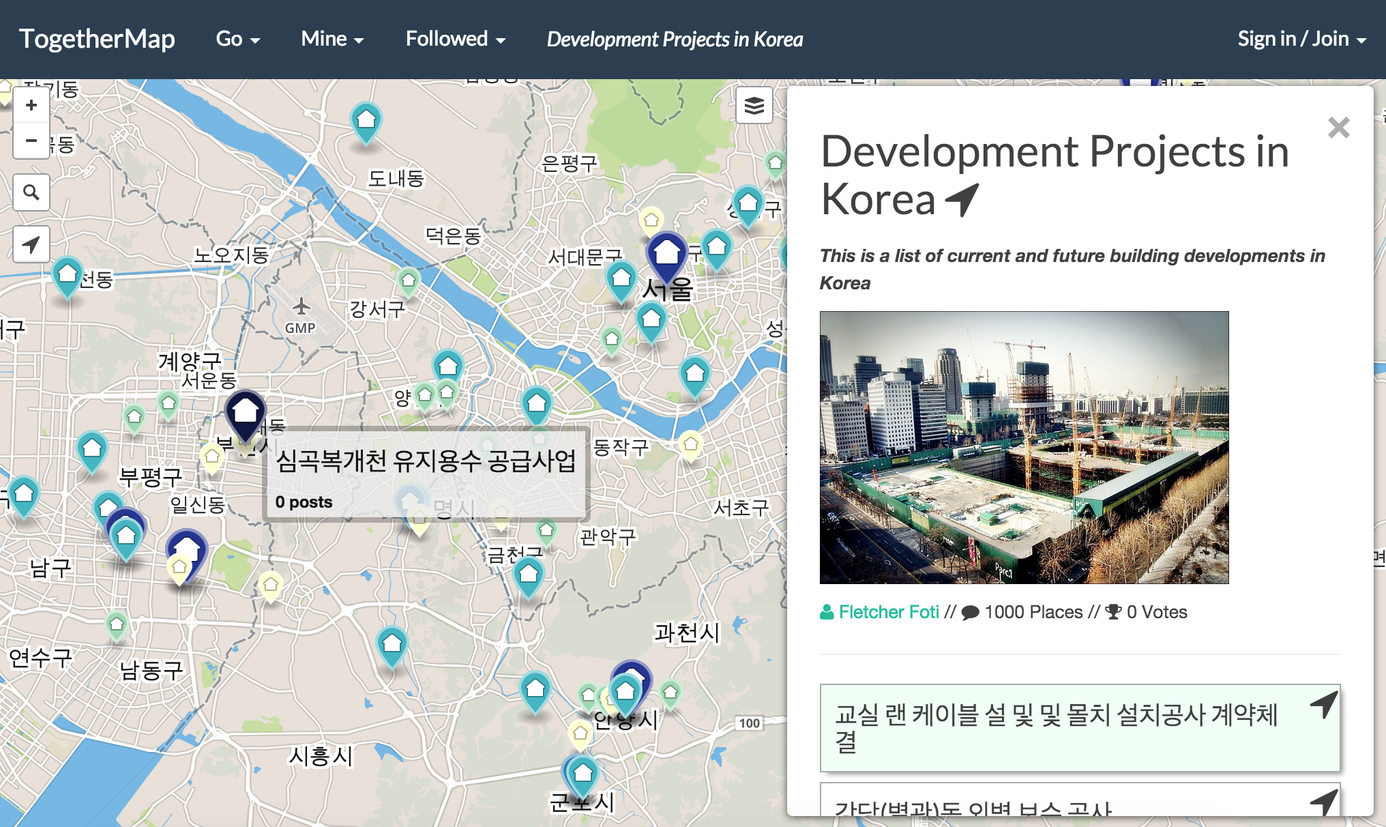
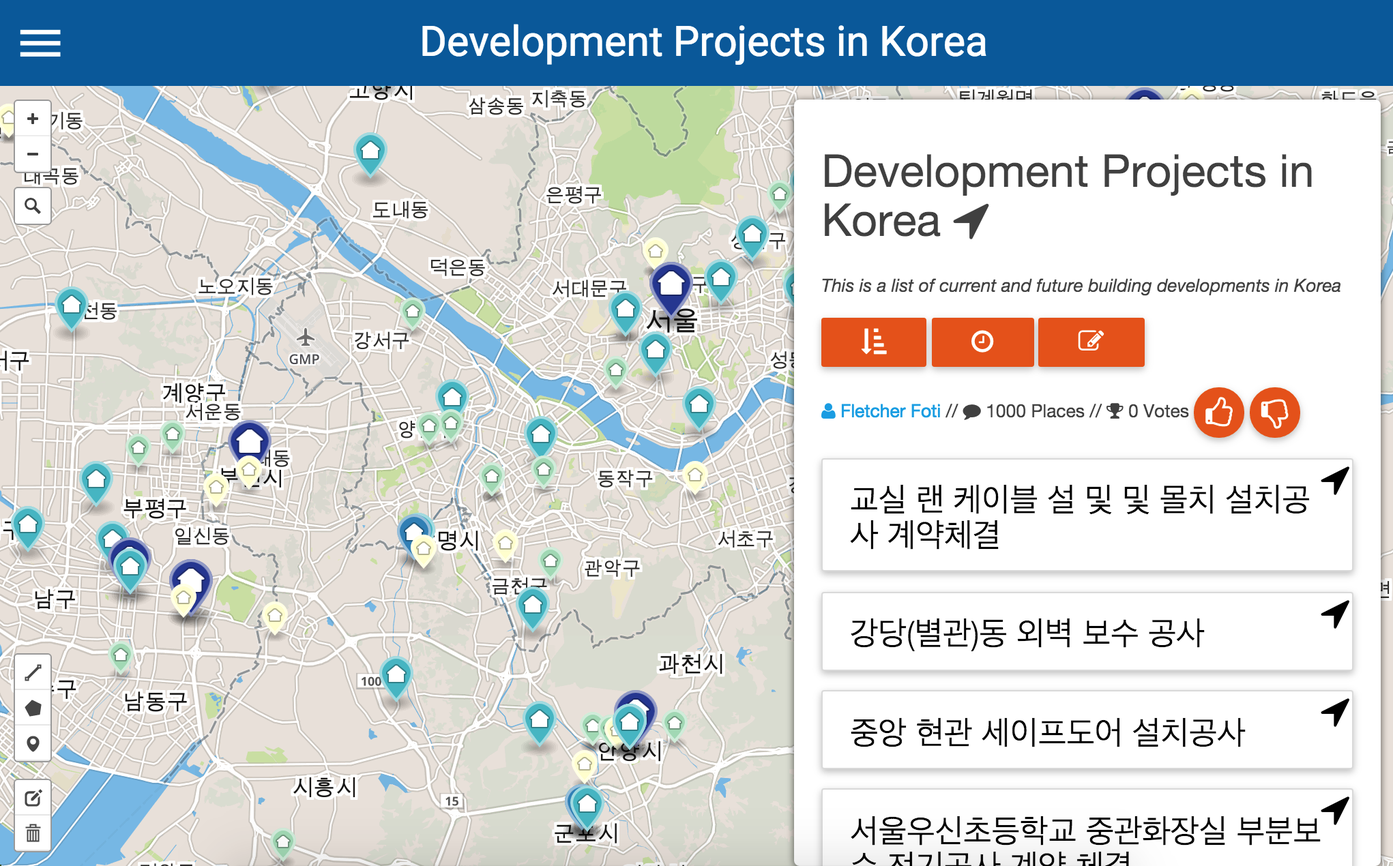
updating the docs to be consistent with the materialize version of the site

diff --git a/docs/basics.md b/docs/basics.md
@@ -1,42 +1,36 @@
 ## A Tour of the UI
 
-The navbar across the top is similar to a file menu in most desktop applications.  "Go" contains links to create a new collection, search or browse collections, import new data, or read this very documentation.
+Most of the basic menu operations happen by clicking the "Hamburger" in the upper left of the navbar.  This pulls out a left-side menu like many mobile sites.  You can then click "Collections" to get access to the list of collections, or "New" for a new colleciton, or "Import" to bring in external shape data.
 
-Next to that is the "Mine" drop down which contains the collections you created, and next to that is the "Followed" drop down which contains - you guessed it - the collections you've followed.
-
-Along the right hand side is where you login to the website.  You must be logged to create or edit content on TM so we can associate your data with your account, which is true of any online service.  If you're logged in to a private collection, your data is as secure as your online bank.
+You also login using the left-hand side menu.  You must be logged to create or edit content on TM so we can associate your data with your account.  If you're logged in to a private collection, your data is as secure as your online bank.
 
 ## The Map View
 
-The map view has a few small widgets which control the map pane.  Along the right hand side is the "sidebar" which fills with content depending on your most recently performed action.  In the upper right hand corner is the layer switcher, which lets you change basemaps (e.g. to aerial photographs and a few others).  Most of the basemaps use data from [OpenStreetMap](https://www.openstreetmap.org/).
+The map view has a few small widgets which control the map pane.  Along the right hand side is the "sidebar" which fills with content depending on your most recently performed action.  Most of the basemaps use data from [OpenStreetMap](https://www.openstreetmap.org/).
 
-Along the left hand side are the zoom in and zoom out buttons, the share widget, the geocoding widget and the location widget.  In reverse order, the location widget takes you to where you are in the world, the geocoder lets you put in an address and when you select a matching address takes you to that location, and the share widget lets you share on social media, and importantly, gives you the html snippet to embed a TogetherMap on your website.
-
-## Embedding
-
-Let's give that a header.  The share widget contains the html snippet to embed a TogetherMap on your website.  Please do!
+Along the left hand side are the zoom in and zoom out buttons and the geocoding widget.  The geocoder lets you put in an address and when you select a matching address takes you to that location.
 
 ## Collection Page
 
-Navigation typically happens by clicking on a collection, either in the "Mine" list, the "Followed" list, or via the "Browse" link.  When a collection is clicked, you get up to 100 places in the map view for that collection, and the sidebar contains a description of the collection.  If there are more than 100 places in the map view where you are, you might need to zoom in to load more places.  TM will let you know if you're looking at all possible places with the statement "All places in visible area are available."  
+Navigation typically happens by clicking "Collections" from the left-side menu.  You can then browse to collections you own, collections you follow, and other public collections.  When a collection is clicked, you get up to 100 places in the map view for that collection, and the sidebar contains a description of the collection.  If there are more than 100 places in the map view where you are, you might need to zoom in to load more places.  
 
-If you click the button for "Recent" you will get the most recent places, posts and comments for the collection.  You may also up or down vote the collection here.  If you have "owner" permissions on the collection, you will be able to edit the collection configuration and set the permissions, which will be explained in the [customization](customization.md) and [permissions](permissions.md) pages respectively.  
+If you click the button for "Recent" you will get the most recent comments for the collection (to get recent places, click the sort button and "recent" to sort by the most recent places).  You may also up or down vote the collection here.  
+
+If you have "owner" permissions on the collection, you will be able to edit the collection configuration and set the permissions, which will be explained in the [customization](customization.md) and [permissions](permissions.md) pages respectively.  
 
 If you do *not* own the collection, you will have the option to follow the collection, and if you are already following the collection you will have the option to unfollow the collection.  
 
-The collection page also includes a scrollable list of all the places currently loaded for the collection.  Whenever you mouse over the "card" for a place, if the place is a marker it will bounce to show you which place this "card" represents on the map.  You can also click the location arrow in the upper right hand corner to pan to the place, and click again to zoom in on the place.
+The collection page also includes a scrollable list of all the places currently loaded for the collection.  Whenever you mouse over the "card" for a place, that place will be highlighted with a darker color in the map view.  Additionally, if the place is a marker it will bounce to show you which place this "card" represents on the map.  You can also click the location arrow in the upper right hand corner to pan to the place, and click again to zoom in on the place.
 
-## Place and Post Pages
+## Place Pages
 
 Click on a place, either in the map view or in the place list in the collection view, and you will arrive on the place page.  The place page mainly is to provide the place (pun intended) to have a conversation about the place.  
 
-Below the place description is a list of current posts about this place.  Create a new topic or respond by commenting on another topic.  To comment click on the "Read More" button to arrive at the post page, or click "Post New Topic" to - you guessed it - post a new topic.
-
-From this page you can also vote the place up or down, copy it to another collection, or edit the place properties, including marker icon, color, and size (small, medium, and large).
+Below the place description is a list of current comments about this place.  From this page you can also vote the place up or down, copy it to another collection, or edit the place properties, including marker icon, color, and size (small, medium, and large), as well as set a default image for the place.
 
 ## Adding Places
 
-If you have place adding permissions for a given collection (which you always have if you created or own the collection), then you will see a toolbar at the bottom left hand corner of the map.  From the bottom, the icons are for delete, edit, marker add, polygon add, and line add.  The last 3 add the main 3 kinds of shapes in any spatial information system and TM is no expection.
+If you have place adding permissions for a given collection (which you always have if you created or own the collection), then you will see a toolbar at the bottom left hand corner of the map (you will not see this toolbar if you don't have permissions).  From the bottom, the icons are for delete, edit, marker add, polygon add, and line add.  The last 3 add the main 3 kinds of shapes in any spatial information system and TM is no expection.
 
 TM uses the wonderful library [Leaflet](http://leafletjs.com/) as it's mapping library, and this drawing toolbar is the [Leaflet Draw](https://github.com/Leaflet/Leaflet.draw) widget.  A pretty great blog to understand the breadth of this plugin is provided [here](http://www.d3noob.org/2014/01/using-leafletdraw-plugin-for-leafletjs.html).
 
@@ -46,4 +40,8 @@ If you click the edit button, you now enter a mode where you can drag any marker
 
 ## Adding Places Redux
 
-There are two other super easy ways to add places.  If you're on the desktop, just right click and use the context menu to add a place.  Or you can click on "Go" and "Settings" (or just Ctrl-d) to turn double clicking into marker adding (as opposed to its default function, which is to zoom in).
+There are two other super easy ways to add places.  If you're on the desktop, just right click and use the context menu to add a place.  Or you can click on "Settings" in the left-side menu (or just Ctrl-d) to turn double clicking into marker adding (as opposed to its default function, which is to zoom in).
+
+## Adding Places on Mobile
+
+If you're on mobile, this all gets simpler, but less powerful.  On mobile, when you have place adding permissions you can only add markers, and there will be a single button on the map with the marker icon to add a place.  Once you click this button, a marker will "float" in the middle of the map; move the map until the marker is in the appropriate location and click the save button (or the "x" to cancel adding the marker).

diff --git a/docs/getting_started.md b/docs/getting_started.md
@@ -1,46 +1,42 @@
-## Places and Posts
+## Places, Votes, and Comments
 
-*I see places and posts mentioned a lot - what are those?*
+*I see places, votes, and comments mentioned a lot - what are those?*
 
 Places are shapes on the map.  They can be markers, lines, or free-form shapes.
 
-Posts are topics about that place.  Posts are the same thing that they are in web message boards like Reddit.  We're building place-based discussions with reddit-like functionality.
+Votes allows you to up and down-vote places within a collection, so you can keep track of consensus of a group, for instance.
 
-Also, comments are responses to posts.  You can click the "read more" link on each post in order to get to the actual comment threads.
-
-Really the use of places, posts, and comments is defined by your convention.  Some users don't use comments at all.  Some don't even use posts and just use TM to collect places and make maps.  It's really up to you to define a convention for a collection.
+Comments are responses about that place, similar to any other web comment board, except with a focus on a particular place.
 
 ## Collections
 
 *I hear the word collection mentioned a lot - what's that?*
 
-Collections are a way to organize your places into groups which have a common theme.  A number of concepts are tied to collections including permissions, theming of how places appear both in the sidebar and on the map, and a few others things.  Collections are similar to a "board" in Pinterest or a "layer" in GIS.  
+Collections are a way to organize your places into groups which have a common theme.  A number of concepts are tied to collections including permissions, theming of how places appear both in the sidebar and on the map, and a few others things we'll get to later.  Collections are similar to a "board" in Pinterest or a "layer" in GIS.  
 
-The key feature of TM is to store many collections in the same system and to be able to search across collections - for instance, to find all the places near you, no matter the collection they are a part of.  
+One key feature of TM is to store many collections in the same system and to be able to search across collections - for instance, to find all the places near you, no matter the collection they are a part of.  
 
-Nonetheless, a great many use cases involve collecting place data within a single collection, and we will make sure to provide access to that functionality in the simplest way possible without complicating things with the greater scope of TM.
+Nonetheless, a great many use cases involve collecting place data within a single collection, and we will make sure to provide access to that functionality in the simplest way possible without complicating things with the greater possibilities provided by TM.
 
 ## Getting Started
 
 *So, what's the best way to get started?*
 
-My favorite use case is to collect places I want to remember - e.g. a set of coffee shops I might want to go to.  So let's assume you and a few friends want to build a collection of the best coffee shops for working in San Francisco.
+My favorite basic use case is to collect places I want to remember - e.g. a set of coffee shops I might want to go to.  So let's assume you and a few friends want to build a collection of the best coffee shops for working in San Francisco.
 
-* First move the map to San Francisco (or to whever you are) using the "location arrow" in the upper left corner of the map.  It takes a second for your device to register the location (and you might have to accept permissions) but this moves the map to your location just like in Google Maps.
+* First move the map to San Francisco (or to wherever you are) by searching for a nearby place using the magnifying glass button on the map, or just drag the map to your preferred location.
 
-	You might want to zoom out a bit (click minus twice) and you can click the "location arrow" again if you want the blue circle to go away.
-
-* Next make a new collection by clicking "Go" and "New".  This creates a new collection with the default name, which you can change to "Fave Coffee" or something similar.  You can also move the map around a bit to your preferred default view for this collection and click "Set Default View".  **Set default view saves both the position and the background map you're currently using.**
+* Next make a new collection by opening the side menu (using the triple bars, called the "Hamburger") and "New".  This creates a new collection with the default name, which you can change to "Fave Coffee" or something similar.  You can also move the map around a bit to your preferred default view for this collection and click the "devault view" button (the triangle rotated to the right) to save the current map as the default view.
 	
-	Click "Save" to go the collection page for this collection.  In reality everything in TM is saved automatically and so "save" really just means "back" to the collection.
+	Click the left arrow to go the collection page for this collection.  In TM everything is saved automatically as you change things (so be sure to change it back if you didn't intend the change).
 
-* Next click "Go" and then "Search".  By default TM searches the place database provided by Factual, Inc. in order to get a great starter set of "places" in the world.  Factual keeps a fairly up-to-date list of all the coffee shops, restaurants, parks, dentists, and so forth (over 65 million places worldwide).  Put "coffee" into the search box and TM begins to search automatically.
+* Next click the Hamburger and then "Search".  By default TM searches the place database provided by Factual, Inc. in order to get a great starter set of places in the world.  Factual keeps a fairly up-to-date list of all the coffee shops, restaurants, parks, dentists, and so forth (over 65 million places worldwide).  Put "coffee" into the search box and TM begins to search automatically.
 
-* Now there's a set of places on the map that have all been returned from a Factual search.  Most are coffee shops, and all have some connection to coffee.  Click on one, possibly a nearby coffee shop that you know.  
+* Now there's a set of places on the map that have all been returned from a Factual search.  Most are coffee shops, and all have some connection to coffee.  Click on one, possibly a nearby coffee shop that you know.  Or search for a specific coffee shop.  TM will search outside of the current view, so you might need to click on the location icon (triangle rotated to the right) to pan to each place.  
 
-	When you click on a place, TM will bring up the place detail page with additional information about the place, and a conversation thread to begin a discussion about the place.
+	When you click on a place, TM will bring up the place detail page with additional information about the place, and a conversation thread to begin making comments about the palce.
 
-	For now click "Copy to".  A list of your collections comes up - both collections you created and collections you follow.  Click on "Fave Coffee" and the place gets added to the collection you created above.
+	For now click the copy icon.  A list of your collections comes up - both collections you created and collections you follow.  Click on "Fave Coffee" and the place gets added to the collection you created above.
 
 	Repeat these steps for other coffee shops you want to add to your map.  It's all downhill from here.
 

diff --git a/docs/images.md b/docs/images.md
@@ -1,18 +1,8 @@
-## The Text Editors
-
-You'll notice that there are small text editors that are used to enter a description of the collections and places, as well as to enter new topics and comments.  These text editors are configurable and provided to us by [Froala](froala.com).  By default these text editors let you bold and italicize the text, make bulleted lists, create links, and embed video and images.  
-
-The far right icon lets you switch to "code" view so you can edit the actual HTML.  Although it's not common, sometimes a `<br>` tag to make a proper line break can save a lot of embarassment.
-
 ### Images
 
 If Pinterest has taught us anything, it's that images are the lifeblood of the web, and TogetherMap is no exception.  We highly reccommend adding images wherever possible in TM to liven things up a bit, but this is entirely up to the user.  
 
-The easiest way to add images to TM is by clicking the image embed icon in every text editor.  In this way you can add images to any collection, place, post, or comment.
-
-### Images from Social
-
-For now, click on the image icon second to right in any text editor.  This will open up the image selection dialog that is provided to us by [filepicker.com](https://www.filepicker.com/).  This part should be fairly easy to figure out, but note that filepicker connects you to your account for Box, Dropbox, Facebook, Google Drive, Flickr, Instagram, and Picasa all within this easy-to-use interface.  
+The easiest way to add images to TM is by clicking the image button on every collection edit or place edit page.  When you click this button, this will open up the image selection dialog that is provided to us by [filepicker.com](https://www.filepicker.com/).  This part should be fairly easy to figure out, but note that filepicker connects you to your account for Box, Dropbox, Facebook, Google Drive, Flickr, Instagram, and Picasa all within this easy-to-use interface.  
 
 Note that this does *not* give us access to your accounts, you simply choose which content you want to move to TM so that you can organize and view it on a map.
 
@@ -28,10 +18,9 @@ If you already know of an image on the web (or prefer using the Google image sea
 
 You can also import an entire album from Flickr into TogetherMap.  Since the concept of a Flickr *album* maps pretty perfectly to the concept of a TogetherMap *collection*, this works quite well.  (Note that Picasa also has albums but they do not publicly release the geotags on the pictures which does not work well for import into TM.)
 
-To import a Flickr collection, simply click "Go" and "Import" and look for the text box labeled "Flickr Link."  In this text box, paste the link to your album on Flickr - it will be of the form `https://www.flickr.com/photos/133431672@N05/sets/72157653474631614` but the long strings of characters will be different.  Then click import.  That's all there is to it.  
+To import a Flickr collection, simply click "Import" in the left-side menu and look for the text box labeled "Flickr Link."  In this text box, paste the link to your album on Flickr - it will be of the form `https://www.flickr.com/photos/133431672@N05/sets/72157653474631614` but the long strings of characters will be different.  Then click import.  That's all there is to it.  
 
 Every image will now be added to TogetherMap with a marker, and the collection and place pages will work the same as any other collection on TM.  As with any other collection, you can add place names and descriptions, which you can use to annotate your photo collection from Flickr (possibly even easier than you can do so on Flickr). 
-
 Finally, there is one additional feature: under any Flickr collection, after you click to edit the collection, there is a *refresh* button, which when clicked will import any *new* photos that are not present in the current collection.  This allows you to continually add photos to the Flickr album and synchronize to TM without losing any of the edits you've made on TM.
 
 ### Setting the permissions correctly on the Flickr Album
@@ -40,8 +29,8 @@ Unfortunately there's one caveat.  Although the TM side of an import is utterly 
 
 First, you have to tell Flickr that's it's OK to publicly release the built-in geotags on your photos (made by your mobile phone or possibly your modern digital camera).  These geotags are essential for TM to map the photos (stands to reason).  All these steps happen on Flickr, not on TogetherMap.
 
-* go to your account (click your image or default image in the upper right hand of the page)
-* click on privacy and permissions along the top (but under the black menu bar)
+* Go to your account (click your image or default image in the upper right hand of the page)
+* Click on privacy and permissions along the top (but under the black menu bar)
 * Make sure "Hide your EXIF data" is set to "No" and set "Import EXIF location data" to "Yes"
 
 Second, you have to make the images in the album public.  The best way I can find to do this is within Organizr.  Click on the album and then find the link for "Edit in Organizr".  Select all the images, click on "Batch Edit" and "Change Permissions" and set to "Anyone".

diff --git a/docs/hooked.md b/docs/hooked.md
@@ -6,20 +6,20 @@ The fun of TogetherMap is the collaborative spirit of mapping in real time.  We'
 
 Do you have that friend yet?  If you don't have that friend handy, you can open up a second browser, get your cell phone, or whatever.  The point is - when you add a place in TM, anyone else following that collection gets the update immediately (without a reload), and can respond with their own edits.  
 
-This is true almost everywhere in TM.  Posts are made in real time on places (like a chatroom), collection lists are refreshed on-the-fly, and even users accepting permissions are updated instantly.  Grab 100s of friends if you can, and watch the map come to life.  
+This is true almost everywhere in TM.  Comments are made in real time on places (like a chatroom), collection lists are refreshed on-the-fly, and even users accepting permissions are updated instantly.  Grab 100s of friends if you have that many, and watch the map come to life.  
 
 And there's no fake maps in TM.  Everything on the site exists in the world out there too, so use TM to help discover new things about the city you live in!  This is not Facebook - helping you keep up with friends 1000s of miles away.  This is TogetherMap, helping you find new experiences in the world you walk through every day.
 
-## Place-based Posting
+## Place-based Conversations
 
-A big part of that is place-based posting.  It's a pretty simple addition to an idea that's everywhere on the web.  Basically you have a conversation thread tied to each and every place you make.  Start a new topic or comment as a response to a previous topic.  
+A big part of that is place-based commenting.  It's a pretty simple addition to an idea that's everywhere on the web.  Basically you have a conversation thread tied to each and every place you make. 
 
-Every place is assigned to a single collection (although places can be copied to other collections and even modified).  In this way multiple discussions can occur about each place. Discussions for each place only happen within the current collection, but there will be links to the other collections a place occurs in for eavesdropping into other groups' conversations (look for "Collections this place is a member of" on each place).  If a collection is private, all conversations in that collection are private.  
+Every place is assigned to a single collection (although places can be copied to other collections and even modified).  In this way multiple discussions can occur about each place. Discussions for each place only happen within the current collection, but there will be links to the other collections a place occurs in for eavesdropping into other groups' conversations (look for "Collections this place is a member of" on each place).  If a collection is private, all conversations within that collection are private.  
 
 So for example a place might be in one collection of "breakfast joints" and also a second of "bars" and you can imagine the conversation that occurs in each collection might be very different.
 
 ## Sifting through the Noise
 
-Like any multi-user website, if the community is active enough, there need to be ways to find the signal through the noise.  TM typically subscribes to the same philosophy as Reddit here, using up- and down-votes, and to some degree clicks, as well as a free text search and browse of collections.  At this time, the voting system is present for collections and places, and will be added to posts when it's needed.  Search now applies to places but can also be added to collections and posts.
+Like any multi-user website, if the community is active enough, there need to be ways to find the signal through the noise.  TM typically subscribes to the same philosophy as Reddit here, using up- and down-votes, and to some degree clicks, as well as a free text search and browse of collections.  At this time, the voting system is present for collections and places.
 
 But like Pinterest, TM uses you the user to curate collections of places and to sift through the noise.  Find the best collections and follow them.  Find the best collectors and look through their other collections.  Who knows what you might find?  As TM grows, we will highlight the best collectors and the best collections and make sure the world knows about them.

diff --git a/docs/permissions.md b/docs/permissions.md
@@ -1,6 +1,6 @@
 ## Accessing Permissions
 
-Permissions are accessed by going to the collection page and clicking on the button for permissions.  Only collection creators and those with owner permissions can change permissions on a collection.
+Permissions are accessed by going to the collection page and clicking on edit and then clicking on the button for permissions (the eye with a line through it).  Only collection creators and those with owner permissions can change permissions on a collection.
 
 ## Kinds of Permissions
 
@@ -11,19 +11,19 @@ There are 4 kinds of permissions in TM.
 * post writers (posters for short)
 * readers
 
-Owners can edit collection attributes and set permissions, place writers can add places to a collection, post writers cannot add places but can make new topics, comments and vote, and readers can only browse a collection but cannot add or edit any content.
+Owners can edit collection attributes and set permissions, place writers can add places to a collection, post writers cannot add places but can make comments and vote, and readers can only browse a collection but cannot add or edit any content.
 
 Note that these permissions are hierarchical, i.e. all place writers are post writers and all post writers are readers and all owners have all available permissions.
 
 ## Making a Collection Private
 
-After clicking the permissions button, you will see 4 buttons, one for each of the 4 kinds of permissions.  Click each button to see the permission settings for that type of permission.
+After clicking the permissions button, you will see 4 links for each of the 4 kinds of permissions.  Click each link to see the permission settings for that type of permission.
 
 First you will see a button to make a collection "private."  By default, when created all collections are public place writable (which implies public readable and public post writable).  To give someone permission, the collection first has to be private for that permission.  Click on private to do this.
 
 In this case private collections are hierarchical in the opposite order, i.e. post private collections are all place private and read private collections are all post private (this happens automatically).
 
-## Configurating a Private Collection
+## Configuring a Private Collection
 
 Once you've made a collection private you will see widgets to configure permissions.
 
@@ -31,9 +31,9 @@ At the top you will see a list of users that have that permission, each with a r
 
 Note: public owner collections do not exist - you must give ownership explicitely.
 
-Giving permissions roughly works the same as Google Docs - i.e. send links to people that to whom you want to give the permission.  To get the link that bestows a given kind of permission, just click the "link" button and the link will be copied to the clipboard for you to, most likely, paste into an email to send to a collaborator.  
+Giving permissions roughly works the same as Google Docs - i.e. send links to people to whom you want to give the permission.  To get the link that bestows a given kind of permission, just click the "link" button and the link will be copied to the clipboard for you to, most likely, paste into an email to send to a collaborator.  
 
-Additionally you can click the "generate" button if you think someone has access to the link that you did not intend, and when you click generate all previous links will no longer give access to the bearers of that link.  
+Additionally you can click the "generate" button to generate a new link if you think someone has access to the link that should not have access, which will invalidate all previous links for this permission.  
 
 Finally, at the bottom will be a button to make the collection "public" again.
 

diff --git a/docs/customization.md b/docs/customization.md
@@ -1,6 +1,6 @@
 ## Customization
 
-All the customization discussed here will be made on the collection settings page, which can be reached by clicking the "Edit" button on the collection page.  The "Edit" button will only be avialable if you have owner permissions on the collection.  Once you're on the "Edit" page you will need to click "More" to get to the expert settings discussed here.
+All the customization discussed here will be made on the collection settings page, which can be reached by clicking the "Edit" icon on the collection page.  The "Edit" icon will only be avialable if you have owner permissions on the collection.  Once you're on the "Edit" page you will need to click the down arrow at the button of the page to get to the expert settings discussed here.
 
 As a word of warning, a modest amount of programming is requried to customize the templates in TogetherMap.  This will likely be configurable in the interface in the future, but programming is the only completely general solution that takes advantage of some wonderful open source tools that have been made available on the web.  As you will soon see, the basics can be done with no previous programming knowledge, and with only the basics you can do some very powerful things in TM.
 
@@ -27,7 +27,7 @@ OK, that's easy enough, but what about the shape arribute?  In fact, there is a 
 
 ## JSON in TM
 
-Let's imagine a coworker sent you a shapefile and you imported it into TM.  You don't even really know what attributes are in the shapefile.  Worry not.  Once the data is in TM, that is now our problem.  Under the first text area is a button with the text "JSON" on it.  Click it and it will give you a formatted sample object from this collection.  I will print one below so you're not too worried when you see a place with it's full complexity.  
+Let's imagine a coworker sent you a shapefile and you imported it into TM.  You don't even really know what attributes are in the shapefile.  Worry not.  Once the data is in TM, that is now our problem.  Under the first text area is a button with a "code" icon on it.  Click it and it will give you a formatted sample object from this collection.  One is printed below so that you won't be too worried when you see a place with it's full complexity.  
 
 So what do you need to know about this?  Not as much as you'd think.  The magic is all in the "properties" sub-dictionary, and you will see "properties" come up a lot in TM templates.  "properties" is part of the GeoJSON spec and allows us to conform with existing conventions - this is where all of the attributes go.  There are also some higher level attributes which TM adds, like createDate, updateDate, and creator which might be of some use, but for the most part, everything you need is under "properties".  
 
@@ -146,16 +146,16 @@ There's actually quite a bit more configuration that can be done with autoform, 
 {
   residentialUnits: {
     label: "Number of residential units in development:",
-    type: Number,
+    type: "Number",
     min: 0
   },
   nonResidentialSqft: {
     label: "Number of non-res square footage:",
-    type: Number,
+    type: "Number",
     min: 0
   },
   hasBikeParking: {
-    type: String,
+    type: "String",
     label: "Has bike parking:",
     allowedValues: [
        "Yes", "No", "Don't know"

diff --git a/docs/extras.md b/docs/extras.md
@@ -1,17 +1,17 @@
 ## Search
 
-When the user clicks on "Go" and "Search", a search will be performed for places in the map view.  By default, the Factual place database - a database of 65 million coffee shops, restaurants and other points of interest - is searched the first time the user clicks on "Search".  If the toggle is then pressed, the search will be performed for places in TogetherMap rather than Factual, and the toggle will indicate which data is being searched.
-
-For either search, only about 25 places will be returned even if there are 1000s of available places in the map view.  Either zoom in to limit the geographic scope, or enter a query in the search box.  As you type characters the search results will be updated automatically in both the map view and list view.
+When the user clicks the "Hamburger" and "Search", a search will be performed for places in the map view.  By default, the Factual place database - a database of 65 million coffee shops, restaurants and other points of interest - is searched the first time the user clicks on "Search".  If the radio button is switched to TogetherMap, data from TM that the user has permissions to view will be searchable.
 
 ## Settings
 
-The only current setting is the meaning of double click mentioned in the [Adding Places Redux](basics.md), which can be used to switch from "zoom in" to "place addition" and back.
+One current setting is the meaning of double click mentioned in the [Adding Places Redux](basics.md), which can be used to switch from "zoom in" to "place addition" and back.
+
+You can also switch the "pan to place" settings which when enabled will pan to each place as you hover the mouse over the "card" in the Collection page.  Normally the place will be highlighted, but this enables you to quickly pan to the place if it's not shown in the current map view.
 
 Soon many additional settings will be added, including at least the ability to configure email notifications on a collection-by-collection basis.
 
 ## Email updates
 
-At this time, email updates are sent as nightly digest emails.  An email will arrive in your inbox each morning with the 10 most recent places, posts, and comments which occurred on any of the collections you own or follow.
+At this time, email updates are sent as nightly digest emails.  An email will arrive in your inbox each morning with the 10 most recent places and comments which occurred on each of the collections you own or follow.
 
 If no updates were made in the previous 24 hours on your collections, no email will be sent.  In this way, emails are used to alert the user that there was recent activity for collections which have relatively infrequent activity.

diff --git a/docs/index.md b/docs/index.md
@@ -1,4 +1,4 @@
-# Make maps of things, then talk about them.
+# TogetherMap: Collaborative Mapping for Web and Mobile
 
 ## The Name
 
@@ -14,17 +14,17 @@ Generally, our mission is to provide an app for people to talk about what's happ
 
 ## Examples
 
+#### Simple collections of places, like saving your favorite parks.
+![](img/parks.png)
+
+<br>
+
 #### Loading scraped web data of recent condo developments in San Francisco and talking about them.
 ![](img/devs.png)
 
 <br>
 
-#### Building a list of your favorite nearby places for friends that are visiting from out of town.
-![](img/places.png)
-
-<br>
-
-#### Adding pictures of places to photo blog your travels.
+#### Importing pictures of places from other websites.
 ![](img/pics.png)
 
 <br>
@@ -34,5 +34,10 @@ Generally, our mission is to provide an app for people to talk about what's happ
 
 <br>
 
-#### We intend to support worldwide use, like this collection of condo developments in Korea.
+#### International use cases, like this collection of condo developments in Korea.
 ![](img/korea.png)
+
+<br>
+
+#### Custom theming of spatial data.
+![](img/theming.png)
